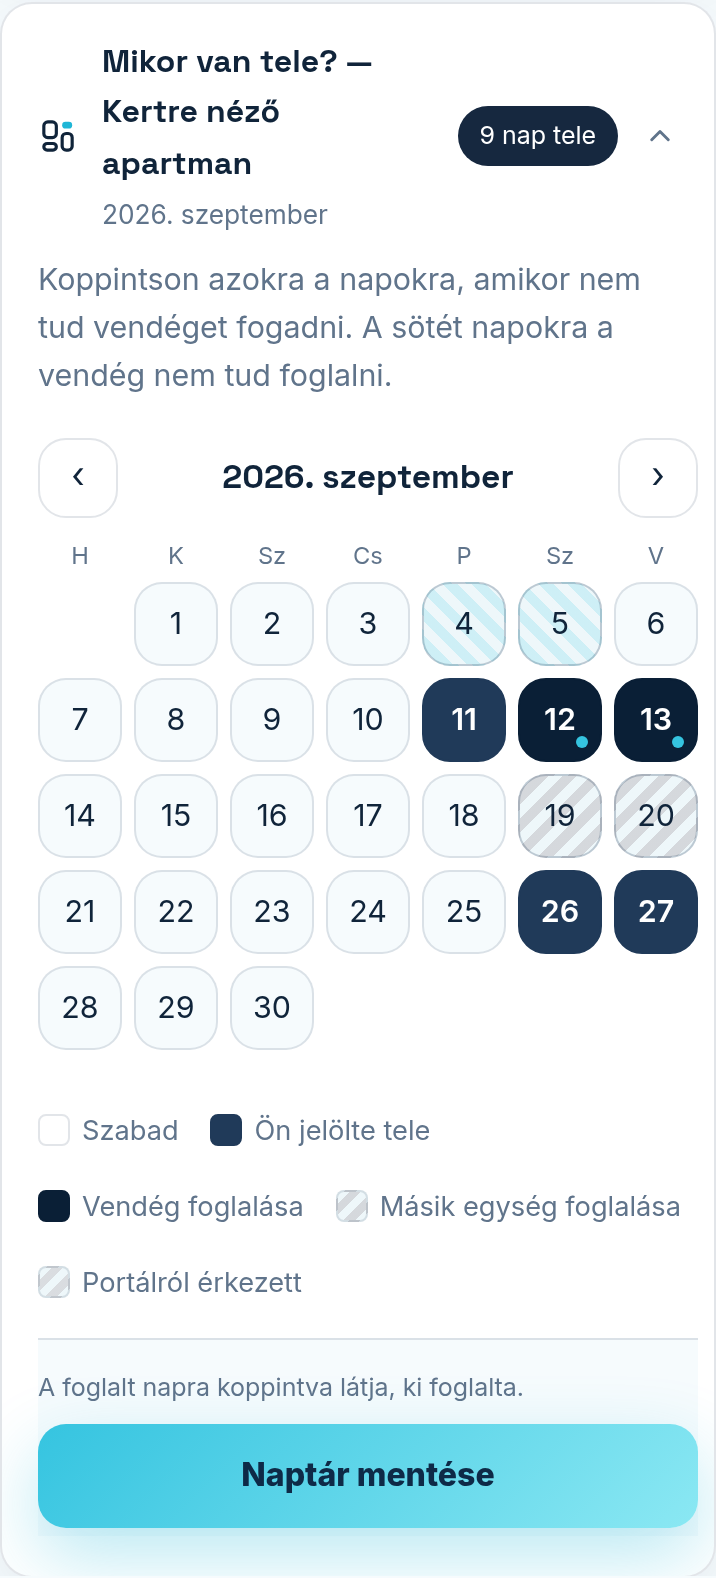
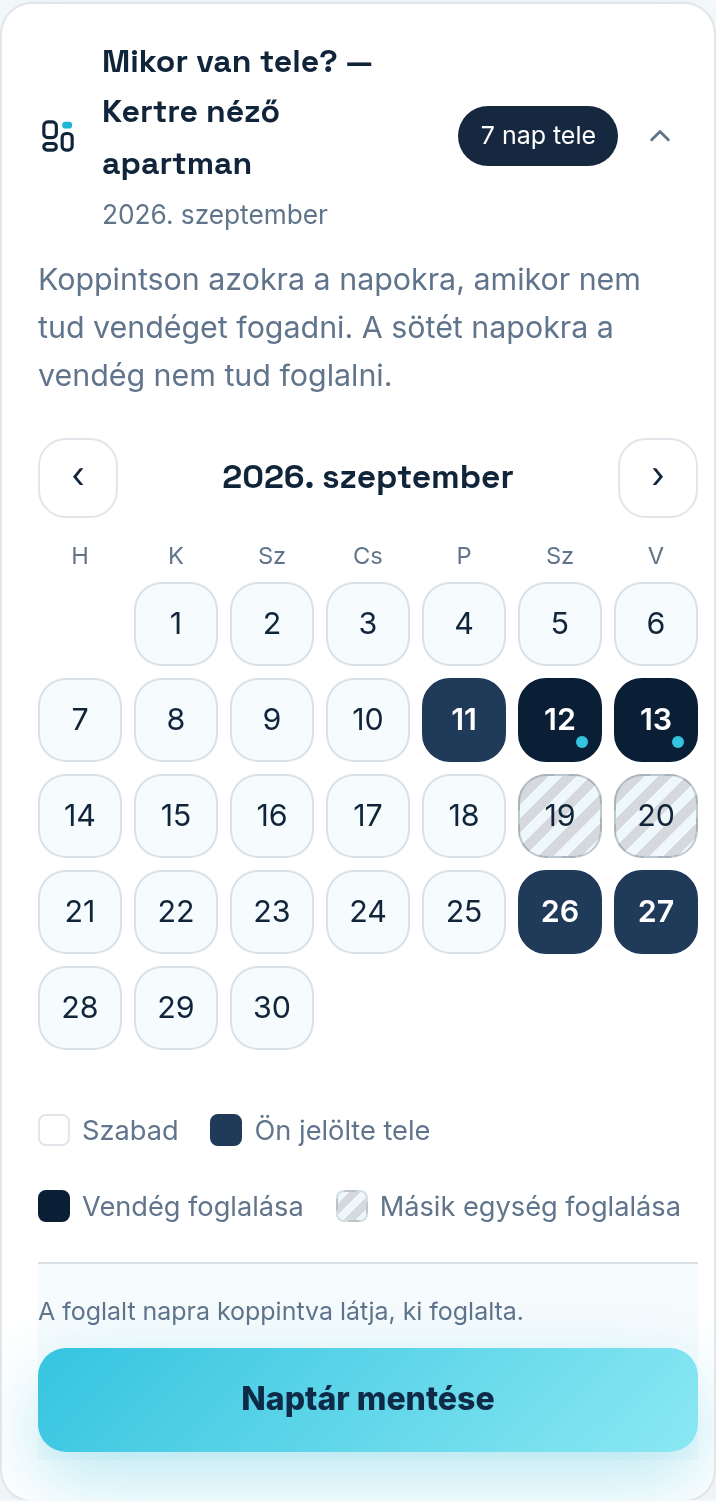
fix(kb): a tudásbázis-kapu öt köre — két kód-hiba és egy korpusz-szintű renderelési hiba
Az élesítés GATE 1c-je. Az őr ÖT körön át blokkolt, és minden körben VALÓDI hibát
talált — köztük hármat, amit én termeltem a javítás közben.

KÓD-HIBÁK (nem csak szöveg):

① NÉMA MEGTAGADÁS a nyitókép-cserénél. A `repointHero` helyesen tagadja meg egy
MÁR KIKÜLDÖTT mock nyitóképének cseréjét (§I: amit a lead megkapott, azt nem írjuk
át alatta) — de az indoklás CSAK `console.warn`-ba ment. Az operátor kattintott, a
lap újratöltött, és semmi nem történt és semmi nem szólt. Most a flash-csatornára
megy. ⚠ Az ELSŐ javításom sem működött: az őr ui-shottal kimérte, hogy a
`#ls-mocks` horgony elgörget a sáv mellett, tehát a némaság csak a naplóból egy
láthatatlan DOM-csomópontba költözött. Flash esetén ezért horgony NÉLKÜL megy a
redirect. Pixel-szinten igazolva 390px-en és desktopon (elementFromPoint).

② A KB-RENDERELŐ NYELTE LE A LISTÁKAT. A feltétel `lines.every(startsWith("- "))`
volt, ezért EGYETLEN tördelt folytatósor bekezdéssé rontotta az egész blokkot.
Mérve a kiszolgáló úton: a korpuszban 4 ép lista volt 35-ből, a többi kötőjelekkel
összeragasztott prózaként ért a telefonon olvasó tulajhoz. A forrás-fájlok jók
voltak. Javítva (a folytatósor az előző tételhez fűződik), plusz a pipe-TÁBLÁZAT
támogatása — a foglalás-súgó központi jelmagyarázata eddig cső-levesként jelent
meg. Mérve: ul 4 → 35, ol 1 → 17, table 0 → 1, és a 48 eltűnt <p> pontosan a
konvertált blokkok száma (nincs regresszió).

③ A FELÜLET nem ígér nem létező funkciót: a Foglalások fül bevezetője
[…]

diff --git a/src/kb/kb.ts b/src/kb/kb.ts
@@ -106,7 +106,8 @@ function inline(s: string): string {
 
 /**
  * Render the deliberately small KB markdown subset (documented in kb/README.md):
- * "## " headings, paragraphs, "- " and "1. " lists, **bold**, block-level images.
+ * "## " headings, paragraphs, "- " and "1. " lists (wrapped items fold), **bold**,
+ * block-level images, and pipe tables.
  * Relative image srcs resolve against assetBase (the session-gated /admin/kb/ route).
  */
 export function renderKbBody(body: string, assetBase: string): string {
@@ -128,12 +129,52 @@ export function renderKbBody(body: string, assetBase: string): string {
       );
       continue;
     }
-    if (lines.every((l) => l.startsWith("- "))) {
-      out.push(`<ul>${lines.map((l) => `<li>${inline(l.slice(2))}</li>`).join("")}</ul>`);
+    // ⛔ 2026-09-09 (tudásbázis-őr, 4. kör): a korábbi feltétel `lines.every(startsWith("- "))`
+    // volt, ezért EGYETLEN tördelt folytatósor az egész blokkot bekezdéssé rontotta —
+    // mérve a kiszolgáló úton: 35 entryből 20 „- " jelekkel összeragasztott prózaként ért
+    // a telefonon olvasó tulajhoz, és az egész korpuszban 4 ép lista volt. A forrás-fájlok
+    // jók voltak; a RENDERELŐ nyelte le őket. A folytatósor mostantól az előző tételhez
+    // fűződik, ahogy a markdown mindenhol máshol is viselkedik.
+    const folded = (marker: RegExp): string[] | null => {
+      if (!marker.test(lines[0]!)) return null;
+      const items: string[] = [];
+      for (const l of lines) {
+        if (marker.test(l)) items.push(l.replace(marker, ""));
+        else if (items.length) items[items.length - 1] += ` ${l.trim()}`;
+        else return null;
+      }
+      return items;
+    };
+    const ul = folded(/^- /);
+    if (ul) {
+      out.push(`<ul>${ul.map((t) => `<li>${inline(t)}</li>`).join("")}</ul>`);
       continue;
     }
-    if (lines.every((l) => /^\d+\.\s/.test(l))) {
-      out.push(`<ol>${lines.map((l) => `<li>${inline(l.replace(/^\d+\.\s/, ""))}</li>`).join("")}</ol>`);
+    const ol = folded(/^\d+\.\s/);
+    if (ol) {
+      out.push(`<ol>${ol.map((t) => `<li>${inline(t)}</li>`).join("")}</ol>`);
+      continue;
+    }
+    // Pipe-táblázat. Eddig NEM volt támogatva, ezért a foglalás-súgó központi
+    // jelmagyarázat-táblája cső-levesként jelent meg — pont az a magyarázat, amiért az
+    // entry létezik. A fejléc alatti elválasztó sor (|---|---|) a horgony.
+    if (lines.length >= 2 && lines[0]!.includes("|") && /^\|?[\s:|-]+\|[\s:|-]*$/.test(lines[1]!)) {
+      const cells = (l: string): string[] =>
+        l.replace(/^\||\|$/g, "").split("|").map((c) => c.trim());
+      const head = cells(lines[0]!);
+      const body = lines.slice(2).map(cells);
+      // A súgó-törzsnek nincs saját stíluslapja, ezért a szabályok itt utaznak — a
+      // színek a dizájn-magból (ADR-0021 ①), nyers hex nélkül. A vízszintes görgetés
+      // tudatos: egy három hasábos, prózás tábla 390px-en másképp szétszedné a lapot.
+      const cell = "padding:6px 8px;border-bottom:1px solid var(--citui-line,#e6ecf2);text-align:left;vertical-align:top";
+      out.push(
+        `<div class="kb-table-wrap" style="overflow-x:auto;margin:12px 0">` +
+          `<table class="kb-table" style="border-collapse:collapse;min-width:100%;font-size:.94em">` +
+          `<thead><tr>${head.map((c) => `<th style="${cell};font-weight:600">${inline(c)}</th>`).join("")}</tr></thead>` +
+          `<tbody>${body
+            .map((r) => `<tr>${r.map((c) => `<td style="${cell}">${inline(c)}</td>`).join("")}</tr>`)
+            .join("")}</tbody></table></div>`,
+      );
       continue;
     }
     out.push(`<p>${inline(lines.join(" "))}</p>`);

diff --git a/src/console/server.ts b/src/console/server.ts
@@ -1847,11 +1847,25 @@ async function handle(
     const actor = op?.displayName || op?.username || "operátor";
     if (url) await setHeroPin(heroPickMatch[1]!, url, actor);
     else await clearHeroPin(heroPickMatch[1]!);
+    // ⛔ 2026-09-09 (tudásbázis-őr lelete): a megtagadás NÉMA volt — a `repointHero`
+    // üzenete csak a szerver-naplóba ment. Egy KIKÜLDÖTT mock nyitóképére kattintva az
+    // operátor azt látta, hogy a lap újratölt és NEM TÖRTÉNIK SEMMI: sem csere, sem
+    // magyarázat. Pedig a rendszernek épp igaza volt (§I: amit a lead megkapott, azt nem
+    // írjuk át alatta) — csak nem mondta meg. A verdikt mostantól a képernyőre megy.
+    let flash = "";
     if (artifactId) {
       const r = await repointHero(artifactId, url || null, actor);
-      if (!r.ok) console.warn(`[hero] ${artifactId}: ${r.message}`);
+      if (!r.ok) {
+        console.warn(`[hero] ${artifactId}: ${r.message}`);
+        flash = `?flash=${encodeURIComponent(r.message)}&flashKind=bad`;
+      }
     }
-    return redirect(res, `/lead/${heroPickMatch[1]}#ls-mocks`);
+    // ⚠ HORGONY NÉLKÜL, ha van mondanivalónk. Mérve (tudásbázis-őr, 4. kör): a
+    // `.con-flash` sáv a fülek FÖLÖTT renderelődik, a `#ls-mocks` horgony viszont a
+    // fül-panelre görget — így a sáv 390px-en és 1280px-en is kigörög a képből. Az első
+    // javításom ezért csak áthelyezte a némaságot a szerver-naplóból egy láthatatlan
+    // DOM-csomópontba. Sikeres cserénél marad a horgony (ott a mock a lényeg).
+    return redirect(res, `/lead/${heroPickMatch[1]}${flash}${flash ? "" : "#ls-mocks"}`);
   }
   // POST /lead/:id/disqualify — operator rules the lead out (kept, never deleted).
   const disqMatch = /^\/lead\/([0-9a-f-]{36})\/disqualify$/i.exec(path);

diff --git a/src/server/bookingViews.ts b/src/server/bookingViews.ts
@@ -481,7 +481,11 @@ export function bookingsSection(d: BookingsTabData, lang = "hu"): string {
   }
 
   const intro =
-    `<p class="bk-intro">${T(lang, "Itt válaszol a vendégek foglalási kéréseire. A beállítások (értesítési címek, portál-naptárkapcsolat) a")} ` +
+    // ⛔ 2026-09-09 (tudásbázis-őr): a mondat a „portál-naptárkapcsolat"-ot ígérte a
+    // Modulok → Foglalás alatt, ahol NINCS ilyen — a portál-szinkron felülete ki van
+    // kapcsolva (PORTAL_SYNC_UI = false). A tulaj hiába kereste volna. Amit tényleg
+    // talál ott: az értesítési címek. §B.17: nem ígérünk nem létező felületet.
+    `<p class="bk-intro">${T(lang, "Itt válaszol a vendégek foglalási kéréseire. A beállítások (például az értesítési címek) a")} ` +
     `<a href="/admin?tab=modulok&m=booking">${T(lang, "Modulok → Foglalás")}</a> ${T(lang, "alatt vannak.")}</p>` +
     // ADR-0045 §J: textual guide entry for this screen; the data-kb-anchor is the
     // coverage hook (kb-check) tying the surface to its KB entry.

diff --git a/kb/entries/console-lead/entry.hu.md b/kb/entries/console-lead/entry.hu.md
@@ -28,9 +28,45 @@ friss webes keresést futtat erre az egy leadre.
 
 ## Mock-generálás
 
-A generáló panelben a **„Kinézet-típus”** kártyákon kiválasztod az elrendezést (a kurátor dönt),
-majd a gombbal indítod. A „generálás folyamatban…” jelzés alatt az oldal magától frissül
-(~1–2 perc). Az elkészült mock az „előnézet ▸” linken nyílik.
+A generáló panelben a **„Kinézet-típus”** kártyákon választod ki, milyen elrendezéssel
+készüljön a mock, majd a gombbal indítod. A „generálás folyamatban…” jelzés alatt az oldal
+magától frissül (~1–2 perc). Az elkészült mock az „előnézet ▸” linken nyílik.
+
+⚠ **A választó TÖBBSZÖRÖS, és alapból egy sincs bejelölve.** Amennyi kártyát bejelölsz, annyi
+külön mock készül; ha egyet sem jelölsz be, egy alapértelmezett kinézettel készül el. Ezt
+érdemes tudni, mert könnyű azt hinni, hogy „nem az készült, amit kértem”, holott választás
+nélkül a rendszer maga döntött.
+
+## A nyitókép felülbírálása
+
+A rendszer maga választ nyitóképet — **a legjobbat, nem a legnagyobbat** —, és minden képnél
+kiírja, mit lát rajta. Ha nem értesz egyet vele, felülbírálhatod.
+
+**Két helyen tudsz jelölni, és másképp néznek ki:**
+
+- A **Fotók panelen** minden képnél ott a pontszám és az indoklás, a kép alatt pedig a
+  **„Legyen ez a nyitókép”** gomb; az aktuálison **„ez a nyitókép”** áll. Kockázatos
+  választásnál megerősítést kér.
+- **„A mock szövege”** panelen egy sáv mutatja a nagy aktuális nyitóképet — rajta a
+  **„NYITÓKÉP”** címke —, mellette a többi kép alkalmasság szerint. Itt a bélyegre magára
+  kattintasz: „Kattints, ha mást akarsz a lap tetejére — a mock azonnal újrarenderelődik.”
+
+- A jelölés **a leadhez tapad**, és a mock **azonnal újrarenderelődik** vele — a sáv ki is írja:
+  „Kézi nyitókép — … választotta. A mock már ezzel van renderelve.”
+- ⛔ **Kiküldött mockot NEM cserél ki alattad.** Ha a mock már ki lett ajánlva a leadnek, a
+  csere elmarad, és a lap tetején piros sávban megjelenik az indok: *„Ez a mock már ki lett
+  ajánlva a leadnek — a nyitóképét nem cseréljük ki alatta. A választást elmentettük: a
+  következő generálás már ezzel készül.”* Amit a szállásadó egyszer megkapott, azt utólag nem
+  írjuk át — a jelölésed viszont nem vész el.
+- A **„Vissza a gépi választásra”** gombbal visszavonod a jelölést. Ez **nem a korábbi állapotot
+  állítja vissza**, hanem újra lefuttatja a szabályt — az eredmény lehet más kép is, mint ami
+  a jelölés előtt volt.
+- Ha egy képről nincs ítéletünk, a sáv ezt kimondja („Erről a képről nincs ítéletünk — a mock
+  kurátor-sorban marad”), nem találgat.
+
+⚠ **A „nem találtunk fotót” a LEADRŐL szól, nem rólunk.** Ha nálunk akad el valami (például
+elfogy a kép-forrás napi kerete), azt a panel külön mondja meg — olyankor a lead ártatlan, és
+érdemes később újrapróbálni.
 
 ## „A mock szövege” — a szöveg-panel
 

diff --git a/kb/entries/admin-modules-booking/entry.hu.md b/kb/entries/admin-modules-booking/entry.hu.md
@@ -37,17 +37,18 @@ A naptár **összecsukható**: a fejléc-sorára koppintva becsukódik, és becs
 tele van abban a hónapban (például „3 nap tele”; ha egy sincs: **„nincs tele nap”**). Újra koppintva
 kinyílik.
 
-## A négy nap-fajta — és melyik mit csinál koppintásra
+## A nap-fajták — és melyik mit csinál koppintásra
 
-A jelmagyarázat pontosan ezt a négy állapotot nevezi meg:
+Az első három állapot mindig szerepel a jelmagyarázatban, akkor is, ha abban a hónapban
+egyetlen ilyen nap sincs. A **„Másik egység foglalása”** sor viszont csak akkor jelenik meg,
+ha tényleg van ilyen nap — ezért gyakran csak az első hármat látja:
 
 | Jelmagyarázat | Mit jelent | Mi történik, ha rákoppint |
 |---|---|---|
 | **„Szabad”** | Foglalható éjszaka | Tele lesz (sötétkék). Mentés után a vendég nem tudja lefoglalni. |
 | **„Ön jelölte tele”** | Az Ön saját blokkja (közepes kék) | **Újra szabaddá válik** — így vonja vissza, ha mégis ki tudja adni. |
 | **„Vendég foglalása”** | Egy elfogadott foglalás (legsötétebb, apró világoskék ponttal) | **Felugrik a foglalás részlete** — lásd a következő szakaszt. Felszabadítani itt nem lehet. |
-| **„Másik egység foglalása”** | Csíkos: a szállás egy másik egysége tartja | Felugrik, hogy **melyik egység** és **ki** tartja. Itt nem oldható fel. |
-| **„Portálról érkezett”** | A portál-naptárból behozott nap | Felugrik, melyik portálról jött — módosítani ott lehet. |
+| **„Másik egység foglalása”** | Csíkos: a szállás egy másik egysége tartja. **Csak akkor jelenik meg, ha van ilyen nap.** | Felugrik, hogy **melyik egység** és **ki** tartja. Itt nem oldható fel. |
 
 ## Mi van egy foglalt nap mögött?
 
@@ -61,8 +62,6 @@ A foglalt napra koppintva **a képernyő közepén felugrik a nap részlete**:
   az időszaka is látszik, és a **„Foglalás megnyitása”** gombbal megnyithatja; ha viszont csak
   kézzel jelölte tele azt az egységet, a kártya ezt írja: „Ezt a napot a(z) … naptárában jelölte
   tele”. Mindkét esetben ott az **„Átváltok a naptárára”** gomb.
-- **Portál-napnál** a portál neve, és hogy azt ott kell kezelni — itt szándékosan nem módosítható,
-  különben ugyanaz az éjszaka kétszer kelne el.
 
 A kártyát az **×** jellel vagy a mögötte lévő sötét háttérre koppintva zárja be.
 

diff --git a/kb/entries/admin-bookings/entry.hu.md b/kb/entries/admin-bookings/entry.hu.md
@@ -40,7 +40,9 @@ Felül a **„Naptár”** sáv csukva egy sorban összegzi a hónapot; rákoppi
 - **Szabad napra** koppintva azt kézzel blokkolja (a vendégek foglaltnak látják); újra koppintva felold.
 - **Zöld (vendég-foglalás) napra** koppintva megnyílik a foglalás: látja a vendég adatait, és a
   **„Foglalás lemondása”** gombbal le is mondhatja — a napok felszabadulnak, a vendég e-mailt kap.
-- A sárga napokat a Booking.com-naptár blokkolja — azokat ott lehet törölni.
+- **Csíkos nap:** azt a napot a szállás egy **másik egysége** tartja (például az egész
+  szállásra érkezett foglalás a szobákat is lefoglalja). Ez a nap **nem koppintható** — sem
+  feloldani, sem megnyitni nem lehet itt. A napot az az egység szabadítja fel, amelyik tartja.
 
 ## Az összegző csempék
 

diff --git a/kb/README.md b/kb/README.md
@@ -43,4 +43,10 @@ updated: 2026-08-21
 ## Támogatott markdown-részhalmaz (a renderelő — `src/kb/kb.ts` — ennyit tud)
 
 `## ` alcím · bekezdés · `- ` felsorolás · `1. ` számozott lista · `**félkövér**` ·
-kép önálló sorban (`![alt](assets/hu/screen.png)`). Más szintaxist NE használj.
+kép önálló sorban (`![alt](assets/hu/screen.png)`) · **pipe-táblázat** (fejléc-sor, alatta
+`|---|---|` elválasztó). Más szintaxist NE használj.
+
+A felsorolás-tételek **tördelhetők**: a folytatósor az előző tételhez fűződik. (2026-09-09-ig
+egyetlen tördelt sor bekezdéssé rontotta az egész blokkot — a korpuszban 35 listából 4 maradt
+ép, a többi kötőjelekkel összeragasztott prózaként ért az olvasóhoz. A forrás-fájlok jók
+voltak; a renderelő nyelte le őket.)

diff --git a/kb/entries/admin-modules-settings/entry.hu.md b/kb/entries/admin-modules-settings/entry.hu.md
@@ -21,9 +21,10 @@ hogy mire való. A speciális képernyőknél (foglalási naptár, szobák, ára
 
 ## Mentés
 
-A **„Beállítások mentése”** gombbal rögzíti, amit beállított. A mentett beállítás az oldala
-következő közzétételekor jelenik meg a honlapján. Ha valamit nem tudtunk elmenteni (például egy
-mező hibás), a képernyő tetején pontosan kiírjuk, mit javítson.
+A **„Beállítások mentése”** gombbal rögzíti, amit beállított. A mentés után a honlapja
+**azonnal újra elkészül** az új beállítással — nincs külön közzétételi lépés, és nem kell
+megvárnia semmit. Ha valamit nem tudtunk elmenteni (például egy mező hibás), a képernyő
+tetején pontosan kiírjuk, mit javítson.
 
 ## Elrontottam valamit — vissza tudom csinálni?
 
